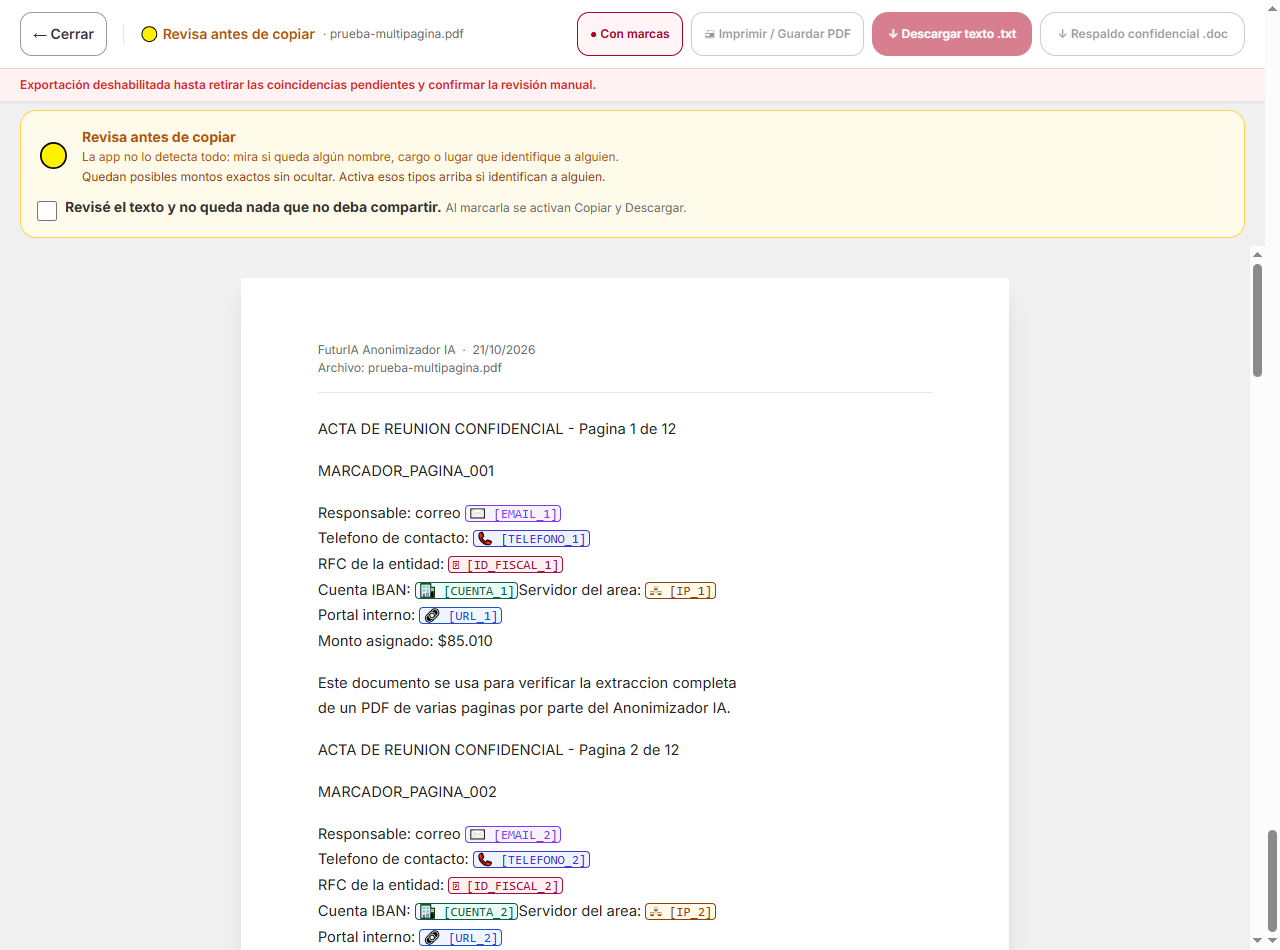
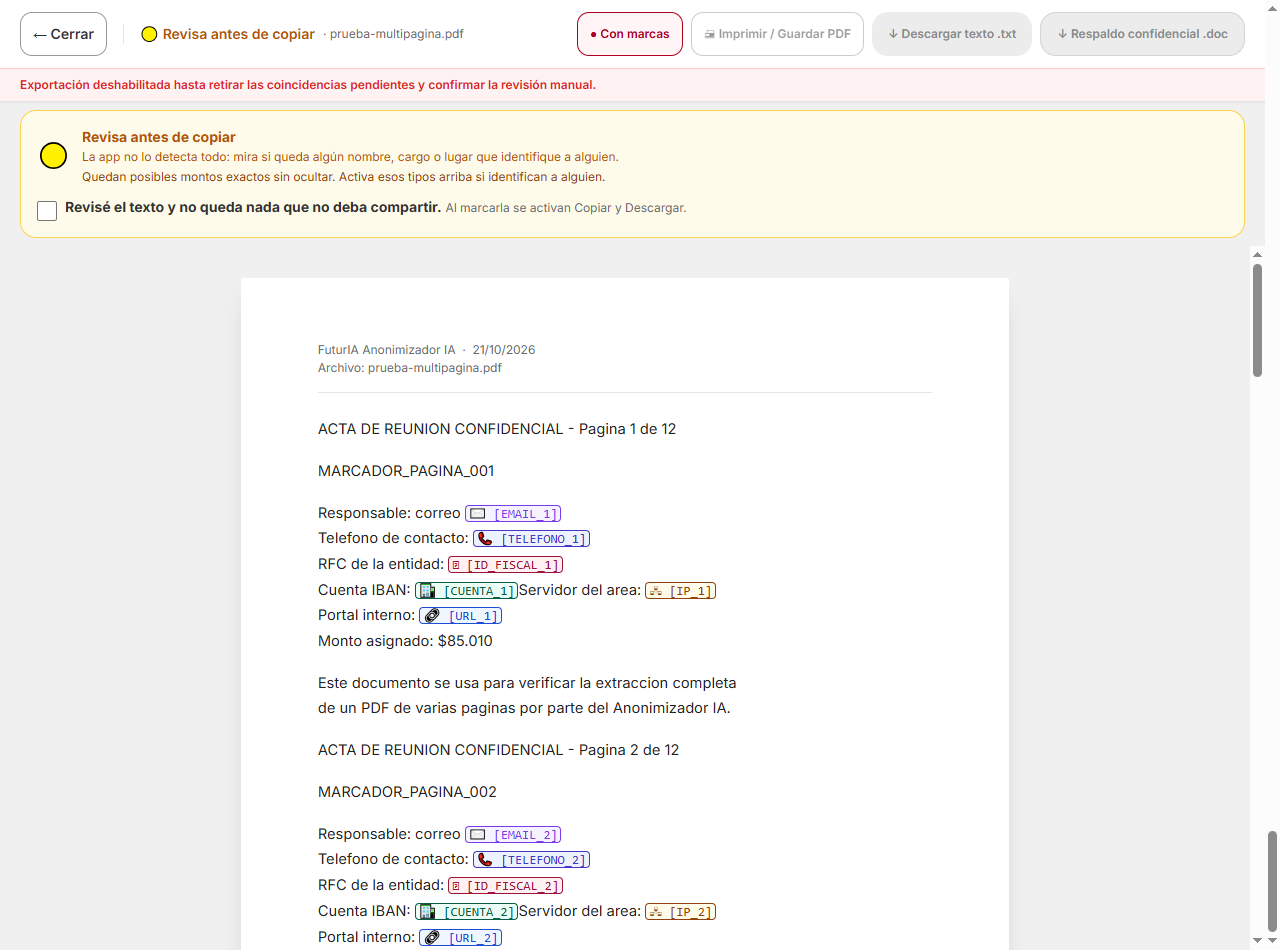
Segunda ronda Krug: botones apagados en gris (no rosa), conjunto seleccionado visible, chips con casilla, numerales neutros, textos sin jerga
- AppButton deshabilitado: gris neutro en vez de rojo transl\u00facido que le\u00eda como error.
- Conjuntos Recomendado / Solo identidad / Todo con estado seleccionado (radiogroup) y
  «Personalizado» cuando no coincide ninguno. Chips con casilla ☑/☐ como interruptor.
- Numerales 1-4 en gris; franja de arranque neutra; el ejemplo es secundario y no compite
  con «Ocultar datos sensibles»; ayuda del botón apagado junto al botón.
- «Más ejemplos: contratos, nómina, ventas…», «Enlaces web», «Direcciones IP»,
  «Direcciones postales», pasos 3 y 4 marcados (opcional), pie sin jerga, Recuperar con
  encabezado y pasos 1·Elige la llave / 2·Pega la respuesta.
Pruebas: 207/207.

Changed region(s): [[0.6562, 0.0, 0.8125, 0.0611], [0.8438, 0.0305, 0.9688, 0.0611]]

diff --git a/index.html b/index.html
@@ -154,7 +154,7 @@ const CATS = [
     ]
   },
   {
-    id: 'url', short: 'Direcciones web',
+    id: 'url', short: 'Enlaces web',
     label: 'URLs y dominios',
     ex: 'https://empresa.com/docs/contrato',
     color: '#1d4ed8', bg: '#eff6ff', border: '#bfdbfe', tag: 'URL', icon: '🔗',
@@ -189,7 +189,7 @@ const CATS = [
     ]
   },
   {
-    id: 'ip', short: 'IP',
+    id: 'ip', short: 'Direcciones IP',
     label: 'Direcciones IP y MAC',
     ex: '192.168.1.105 · fe80::1 · 00:1A:2B:3C:4D:5E',
     color: '#92400e', bg: '#fffbeb', border: '#fde68a', tag: 'IP', icon: '🖧',
@@ -302,7 +302,7 @@ const CATS = [
     ]
   },
   {
-    id: 'address', short: 'Direcciones',
+    id: 'address', short: 'Direcciones postales',
     label: 'Direcciones físicas (heurístico)',
     ex: 'Av. República #123, Calle Bolívar 45',
     color: '#0369a1', bg: '#f0f9ff', border: '#bae6fd', tag: 'DIRECCION', icon: '📍',
@@ -570,7 +570,8 @@ Director de Tecnología — Sistemas Integrados del Norte S.A.
 
 // ─── Componentes UI base ──────────────────────────────────────────────────────
 function AppButton({ children, onClick, variant = "primary", className = "", type = "button", disabled = false }) {
-  const base = "inline-flex min-h-[44px] items-center justify-center gap-2 rounded-2xl px-4 py-2.5 text-sm font-semibold transition focus:outline-none focus-visible:ring-2 focus-visible:ring-[#b00020] focus-visible:ring-offset-2 disabled:opacity-50 disabled:cursor-not-allowed";
+  // Apagado = gris neutro (no rosa): «todavía no», nunca «error».
+  const base = "inline-flex min-h-[44px] items-center justify-center gap-2 rounded-2xl px-4 py-2.5 text-sm font-semibold transition focus:outline-none focus-visible:ring-2 focus-visible:ring-[#b00020] focus-visible:ring-offset-2 disabled:cursor-not-allowed disabled:border-[#d4d4d4] disabled:bg-[#ececec] disabled:text-[#8a8a8a] disabled:hover:bg-[#ececec]";
   const styles = variant === "primary"
     ? "bg-[#b00020] text-white hover:bg-[#8c001a]"
     : "border border-[#9a9a9a] bg-white text-[#333333] hover:bg-[#fff5f6]";
@@ -2682,6 +2683,8 @@ function GrowingTextarea({ value, onChange, minRows = 3, maxRows = 14, className
 }
 
 function CategoryPanel({ cats, onToggle, onPreset, customTerms, onCustomTerms, whitelist, onWhitelist }) {
+  const activeIds = cats.filter(c => c.on).map(c => c.id).sort().join(',');
+  const activePreset = PRESETS.find(p => [...new Set([...p.cats, ...cats.filter(c => c.alwaysOn).map(c => c.id)])].sort().join(',') === activeIds);
   const fieldClass = "w-full rounded-2xl border border-[#9a9a9a] bg-white p-3 font-mono text-base sm:text-sm text-[#222222] outline-none transition focus:border-[#b00020] focus:ring-2 focus:ring-[#b00020] resize-none";
   const ordered = [...cats.filter(c => c.on), ...cats.filter(c => !c.on)];
   return (
@@ -2689,16 +2692,22 @@ function CategoryPanel({ cats, onToggle, onPreset, customTerms, onCustomTerms, w
       <div>
         <div className="flex flex-wrap items-start justify-between gap-3">
           <div>
-            <h2 id="cats-title" className="font-bold text-[#222222]"><span className="text-[#b00020]">2 ·</span> Qué tipos de datos se ocultan</h2>
-            <p className="mt-1 text-sm text-[#6b6b6b]">Los habituales ya están marcados. Toca uno para activarlo o quitarlo.</p>
+            <h2 id="cats-title" className="font-bold text-[#222222]"><span className="text-[#6b6b6b]">2 ·</span> Qué tipos de datos se ocultan</h2>
+            <p className="mt-1 text-sm text-[#6b6b6b]">Los habituales ya están marcados. Marca o desmarca los que necesites.</p>
           </div>
-          <div className="flex flex-wrap items-center gap-2" role="group" aria-label="Atajos">
-            {PRESETS.map(p => (
-              <button key={p.id} type="button" onClick={() => onPreset(p)} title={p.desc}
-                className="rounded-full border border-[#d4d4d4] bg-white px-3 py-1.5 text-xs font-semibold text-[#333333] hover:border-[#b00020] hover:text-[#b00020] focus:outline-none focus-visible:ring-2 focus-visible:ring-[#b00020]">
-                {p.label}
-              </button>
-            ))}
+          <div className="flex flex-wrap items-center gap-2" role="radiogroup" aria-label="Conjuntos predefinidos">
+            <span className="text-xs text-[#6b6b6b]">Conjunto:</span>
+            {PRESETS.map(p => {
+              const selected = activePreset && activePreset.id === p.id;
+              return (
+                <button key={p.id} type="button" role="radio" aria-checked={!!selected} onClick={() => onPreset(p)} title={p.desc}
+                  className={cn('rounded-full border px-3 py-1.5 text-xs font-semibold focus:outline-none focus-visible:ring-2 focus-visible:ring-[#b00020]',
+                    selected ? 'border-[#222222] bg-[#222222] text-white' : 'border-[#d4d4d4] bg-white text-[#333333] hover:border-[#222222]')}>
+                  {p.label}
+                </button>
+              );
+            })}
+            {!activePreset ? <span className="text-xs text-[#6b6b6b]">Personalizado</span> : null}
           </div>
         </div>
         <div id="cats-body" className="mt-4 flex flex-wrap gap-2" role="group" aria-label="Tipos de datos">
@@ -2706,10 +2715,10 @@ function CategoryPanel({ cats, onToggle, onPreset, customTerms, onCustomTerms, w
             <button key={c.id} type="button" onClick={() => onToggle(c.id)} aria-pressed={c.on} disabled={c.alwaysOn} aria-label={c.label}
               title={c.alwaysOn ? 'Siempre activo. Las claves nunca deben salir.' : c.label + ' — ej.: ' + c.ex}
               className={cn('inline-flex min-h-[36px] items-center gap-2 rounded-full border px-3 py-1.5 text-sm font-medium transition focus:outline-none focus-visible:ring-2 focus-visible:ring-[#b00020]',
-                c.on ? 'border-transparent text-[#222222]' : 'border-dashed border-[#bdbdbd] bg-white text-[#8a8a8a] hover:border-[#6b6b6b] hover:text-[#333333]',
+                c.on ? 'border-transparent text-[#222222]' : 'border-[#d4d4d4] bg-white text-[#555555] hover:border-[#6b6b6b]',
                 c.alwaysOn && 'cursor-default')}
               style={c.on ? { backgroundColor: c.bg, boxShadow: 'inset 0 0 0 1px ' + c.border } : undefined}>
-              <span aria-hidden="true" className="text-xs font-bold" style={{ color: c.on ? c.color : '#bdbdbd' }}>{c.on ? '✓' : '+'}</span>
+              <span aria-hidden="true" className="inline-flex h-4 w-4 items-center justify-center rounded border text-[10px] font-bold" style={c.on ? { borderColor: c.color, backgroundColor: c.color, color: '#fff' } : { borderColor: '#9a9a9a', backgroundColor: '#fff' }}>{c.on ? '✓' : ''}</span>
               <span>{c.short || c.label}</span>
               {c.alwaysOn ? <span aria-hidden="true" className="text-xs">🔒</span> : null}
             </button>
@@ -2718,13 +2727,13 @@ function CategoryPanel({ cats, onToggle, onPreset, customTerms, onCustomTerms, w
       </div>
       <div className="grid gap-5 md:grid-cols-2">
         <div>
-          <label htmlFor="custom-terms" className="block font-bold text-[#222222]"><span className="text-[#b00020]">3 ·</span> Oculta siempre estas palabras</label>
+          <label htmlFor="custom-terms" className="block font-bold text-[#222222]"><span className="text-[#6b6b6b]">3 ·</span> Oculta siempre estas palabras <span className="text-xs font-normal text-[#6b6b6b]">(opcional)</span></label>
           <p id="custom-help" className="mb-2 mt-1 text-sm text-[#6b6b6b]">Nombres, proyectos o códigos que la app no detecta sola. Uno por línea.</p>
           <GrowingTextarea id="custom-terms" className={fieldClass} value={customTerms} onChange={e => onCustomTerms(e.target.value)}
             placeholder={"Juan Pérez García\nProyecto Orión\nContrato-2024-XZ"} aria-describedby="custom-help" />
         </div>
         <div>
-          <label htmlFor="whitelist" className="block font-bold text-[#222222]"><span className="text-[#b00020]">4 ·</span> Deja visibles estas palabras</label>
+          <label htmlFor="whitelist" className="block font-bold text-[#222222]"><span className="text-[#6b6b6b]">4 ·</span> Deja visibles estas palabras <span className="text-xs font-normal text-[#6b6b6b]">(opcional)</span></label>
           <p id="whitelist-help" className="mb-2 mt-1 text-sm text-[#6b6b6b]">Lo que la IA sí puede ver: tu empresa, tu ciudad, un correo público. Uno por línea.</p>
           <GrowingTextarea id="whitelist" className={fieldClass} value={whitelist} onChange={e => onWhitelist(e.target.value)}
             placeholder={"Mi Empresa S.A.\nventas@miempresa.com\nBogotá"} aria-describedby="whitelist-help" />
@@ -2891,16 +2900,16 @@ function WorkTab({ setLastResult, lastResult, initialMode }) {
       {showTemplates ? <TemplatesPanel onSelect={loadTemplate} onClose={() => setShowTemplates(false)} /> : null}
 
       {/* Bloque 1 — arranque: qué es esto y cómo probarlo sin arriesgar nada */}
-      <section className="rounded-[28px] border border-[#f3c6cc] bg-[#fff5f6] px-6 py-5" aria-labelledby="start-title">
+      <section className="rounded-[28px] border border-[#e5e5e5] bg-[#fafafa] px-6 py-5" aria-labelledby="start-title">
         <div className="flex flex-wrap items-center justify-between gap-4">
           <div className="min-w-0 max-w-2xl">
             <h2 id="start-title" className="text-lg font-bold text-[#222222]">Pásalo por aquí antes de pegarlo en una IA</h2>
             <p className="mt-1 text-sm text-[#444444]">Cambiamos nombres, teléfonos, cuentas y claves por etiquetas. Luego los recuperas. Nada sale de tu navegador.</p>
-            <p className="mt-1 text-xs text-[#6b6b6b]">50 ejemplos con datos ficticios para probar sin arriesgar nada.</p>
+            <p className="mt-1 text-xs text-[#6b6b6b]">Prueba primero con un ejemplo: son 50 textos con datos inventados.</p>
           </div>
           <div className="flex gap-2 flex-wrap">
-            <AppButton variant={inputText ? 'secondary' : 'primary'} onClick={trySample}>Ver un ejemplo ahora</AppButton>
-            <AppButton variant="secondary" onClick={() => setShowTemplates(true)} disabled={uploading}>Elegir una plantilla por área ▾</AppButton>
+            <AppButton variant="secondary" onClick={trySample}>Ver un ejemplo ahora</AppButton>
+            <AppButton variant="secondary" onClick={() => setShowTemplates(true)} disabled={uploading}>Más ejemplos: contratos, nómina, ventas…</AppButton>
           </div>
         </div>
       </section>
@@ -2909,7 +2918,7 @@ function WorkTab({ setLastResult, lastResult, initialMode }) {
       <section className="rounded-[28px] border border-[#e5e5e5] bg-white shadow-sm p-6" aria-labelledby="input-title"
         onDragOver={e => { e.preventDefault(); setDragOver(true); }} onDragLeave={() => setDragOver(false)} onDrop={handleDrop}>
         <div className="mb-3 flex items-center justify-between gap-4 flex-wrap">
-          <h2 id="input-title" className="font-bold text-[#222222]"><span className="text-[#b00020]">1 ·</span> Pega tu texto o sube un archivo</h2>
+          <h2 id="input-title" className="font-bold text-[#222222]"><span className="text-[#6b6b6b]">1 ·</span> Pega tu texto o sube un archivo</h2>
           <div className="flex items-center gap-2 flex-wrap">
             <AppButton variant="secondary" disabled={uploading} onClick={() => fileInputRef.current && fileInputRef.current.click()} aria-describedby="file-limits">
               {uploading ? '⏳ Procesando…' : '↑ Subir archivo'}
@@ -2934,10 +2943,11 @@ function WorkTab({ setLastResult, lastResult, initialMode }) {
           </div>
         ) : null}
         <div className="mt-3 flex items-center justify-between flex-wrap gap-2">
-          <span className="text-xs text-[#6b6b6b]">
-            {inputText.trim() ? inputText.length.toLocaleString() + ' caracteres' : <span>Pega un texto o <button type="button" onClick={trySample} className="font-semibold text-[#b00020] underline">ve un ejemplo</button> para activar el botón.</span>}
+          <span className="text-xs text-[#6b6b6b]">{inputText.trim() ? inputText.length.toLocaleString() + ' caracteres' : ''}</span>
+          <span className="flex items-center gap-3 flex-wrap">
+            {!inputText.trim() ? <span className="text-xs text-[#6b6b6b]">Pega un texto o <button type="button" onClick={trySample} className="font-semibold text-[#222222] underline">ve un ejemplo</button> para activar el botón →</span> : null}
+            <AppButton onClick={anonymize} disabled={!inputText.trim() || (activeCats.length === 0 && !hasCustomTerms) || uploading}>Ocultar datos sensibles</AppButton>
           </span>
-          <AppButton onClick={anonymize} disabled={!inputText.trim() || (activeCats.length === 0 && !hasCustomTerms) || uploading}>Ocultar datos sensibles</AppButton>
         </div>
       </section>
 
@@ -3097,12 +3107,12 @@ function RecoverTab({ lastResult }) {
     <div className="space-y-6">
       <LiveStatus message={status} />
       <div className="rounded-[28px] border border-[#e5e5e5] bg-white shadow-sm p-6">
-        <h2 className="text-xl font-bold text-[#222222] mb-1">Vuelve a poner los datos reales en la respuesta de la IA</h2>
+        <h2 className="text-xl font-bold text-[#222222] mb-1">Recuperar: vuelve a poner los datos reales en la respuesta de la IA</h2>
         <p className="text-sm text-[#6b6b6b]">Pega lo que te contestó la IA. Cada etiqueta como <span className="font-mono">[PERSONA_1]</span> se cambia por el dato real, aunque el modelo la haya escrito distinto.</p>
       </div>
 
       <div className="rounded-[28px] border border-[#e5e5e5] bg-white shadow-sm p-6">
-        <p className="text-xs font-semibold uppercase tracking-wide text-[#6b6b6b] mb-3" id="key-source">Qué llave usar</p>
+        <p className="font-bold text-[#222222] mb-3" id="key-source"><span className="text-[#6b6b6b]">1 ·</span> Elige la llave</p>
         <div className="mb-4 flex gap-3 flex-wrap" role="group" aria-labelledby="key-source">
           <button type="button" onClick={() => { setMode('auto'); setRecovered(null); }} aria-pressed={mode === 'auto'}
             className={cn("flex-1 min-w-[12rem] rounded-2xl border px-4 py-3 text-sm font-semibold transition text-left focus:outline-none focus-visible:ring-2 focus-visible:ring-[#b00020]", mode === 'auto' ? "border-2 border-[#222222] bg-[#fafafa] text-[#222222]" : "border-[#9a9a9a] text-[#333333] hover:bg-[#fafafa]")}>
@@ -3131,10 +3141,10 @@ function RecoverTab({ lastResult }) {
 
       <div className="rounded-[28px] border border-[#e5e5e5] bg-white shadow-sm p-6">
         <div className="mb-2 flex items-center gap-2">
-          <label htmlFor="modified-text" className="text-sm font-semibold text-[#222222]">Pega la respuesta de la IA</label>
+          <label htmlFor="modified-text" className="font-bold text-[#222222]"><span className="text-[#6b6b6b]">2 ·</span> Pega la respuesta de la IA</label>
         </div>
         <textarea id="modified-text" rows={12} value={modifiedText} onChange={e => { setModifiedText(e.target.value); setRecovered(null); }} className={fieldClass}
-          placeholder="Pega aquí lo que te contestó ChatGPT, Claude o Gemini. Las etiquetas como [PERSONA_1] se cambiarán por los datos reales." />
+          placeholder="Pega aquí lo que te contestó ChatGPT, Claude o Gemini. Las etiquetas entre corchetes se cambiarán por los datos reales." />
         <div className="mt-3 flex items-center gap-3 flex-wrap">
           <AppButton onClick={recover} disabled={!modifiedText.trim() || !hasMappingSource}>Recuperar datos originales</AppButton>
           {!modifiedText.trim() ? <span className="text-xs text-[#6b6b6b]">Pega una respuesta para activar el botón.</span> : !hasMappingSource ? <span className="text-xs text-[#6b6b6b]">Elige una llave arriba para activar el botón.</span> : null}
@@ -3263,7 +3273,7 @@ function App() {
       </main>
 
       <footer className="border-t border-[#e5e5e5] py-6 text-center text-xs text-[#6b6b6b]">
-        FuturIA Anonimizador IA v{APP_VERSION} — gratuito · procesamiento local · sin historial · seudonimización reversible que requiere revisión manual.
+        FuturIA Anonimizador IA v{APP_VERSION} — gratis · todo ocurre en tu navegador · no guarda nada · revisa siempre el resultado.
         {' · '}
         <a href="https://futuria.substack.com/" target="_blank" rel="noreferrer" className="text-[#b00020] hover:underline">futuria.substack.com</a>
       </footer>
